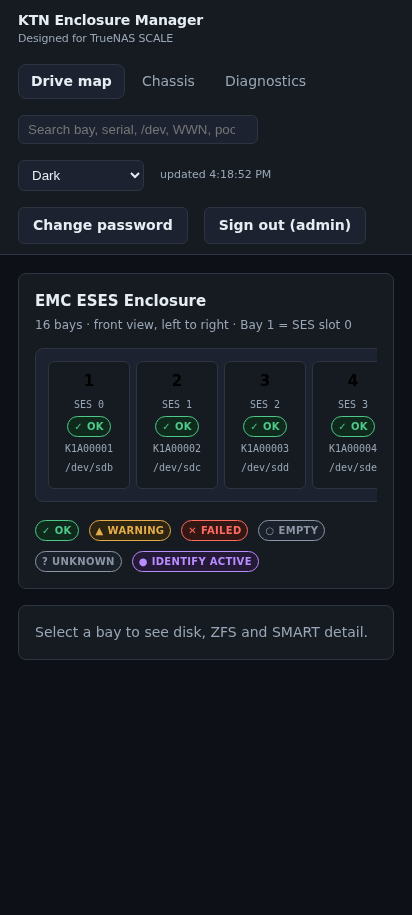
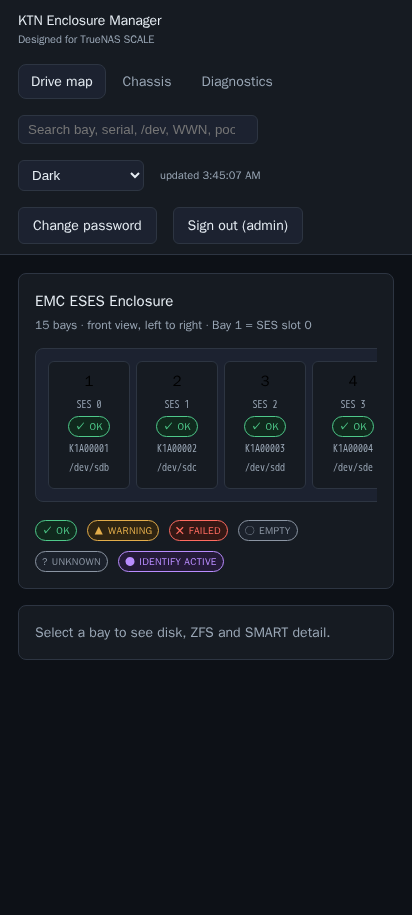
Screenshots depict the real 15-bay shelf, not the test scaffolding
The README images showed a 16th bay - 'Bay 100, SES 99, EMPTY' - that no
KTN-STL3 has ever had. It is the fixture's synthetic empty slot, added so
discovery is proven to key on the 'slot' attribute rather than directory
naming, and the screenshot pipeline shot it along with the real bays.

The E2E suite keeps the synthetic entries (it asserts on them); the
screenshot flow now sets KTN_E2E_SYNTHETIC_SLOTS=0, which prunes slot 99 and
the decoy directory from its sysfs copy. All six images regenerated: the
drive map reads '15 bays' and ends at bay 15.

Also corrected the README fan section: the two PSU fan banks measurably run
at different speeds (7/7 at 5300 RPM with the request flag latched, 3/3 at
2490), so 'all four run at speed_code=7' overstated it - the firmware does
modulate, it just refuses outside input. The rc=0 lesson stands unchanged.

Claude-Session: https://claude.ai/code/session_014UDohyzVGaVnDkpcLJ4g3V

diff --git a/README.md b/README.md
@@ -143,8 +143,11 @@ implementation gets both wrong:
 Measured, so nobody has to repeat it. The KTN-STL3 exposes four controllable
 cooling elements — `Cooling Fan B` at type header `20` (elements `20,0`,
 `20,1`) and `Cooling Fan A` at `23` (`23,0`, `23,1`) — plus an aggregate
-`Cooling Fan M` at `17` with zero elements, which must not be written to. All
-four run at `speed_code=7`, 5300 RPM.
+`Cooling Fan M` at `17` with zero elements, which must not be written to. The
+enclosure runs the two banks differently on its own authority - one PSU's pair
+latched at `speed_code=7` (5300 RPM, with the "requested on" flag set), the
+other at `speed_code=3` (2490 RPM) - which itself proves the firmware does
+modulate; it just refuses outside input.
 
 **Requesting a lower speed does not work.** `sg_ses --index=20,0
 --set=speed_code=6` returns success and prints nothing, and the value reads
@@ -251,9 +254,12 @@ npx playwright test                                          # E2E against the r
 ### Regenerating the screenshots
 
 ```bash
-bash scripts/e2e-server.sh &          # backend on :8421, against the fixtures
+KTN_E2E_SYNTHETIC_SLOTS=0 bash scripts/e2e-server.sh &   # backend on :8421
 node frontend/scripts/screenshots.mjs
 ```
+
+`KTN_E2E_SYNTHETIC_SLOTS=0` prunes the fixture's synthetic empty bay (SES 99,
+a discovery test aid) so the images show the shelf's real 15 bays.
 
 Shot against the captured fixture, never a live shelf. The fixture is already
 sanitised — serials `K1A0000N`, pool `tank` — so the images cannot carry real
